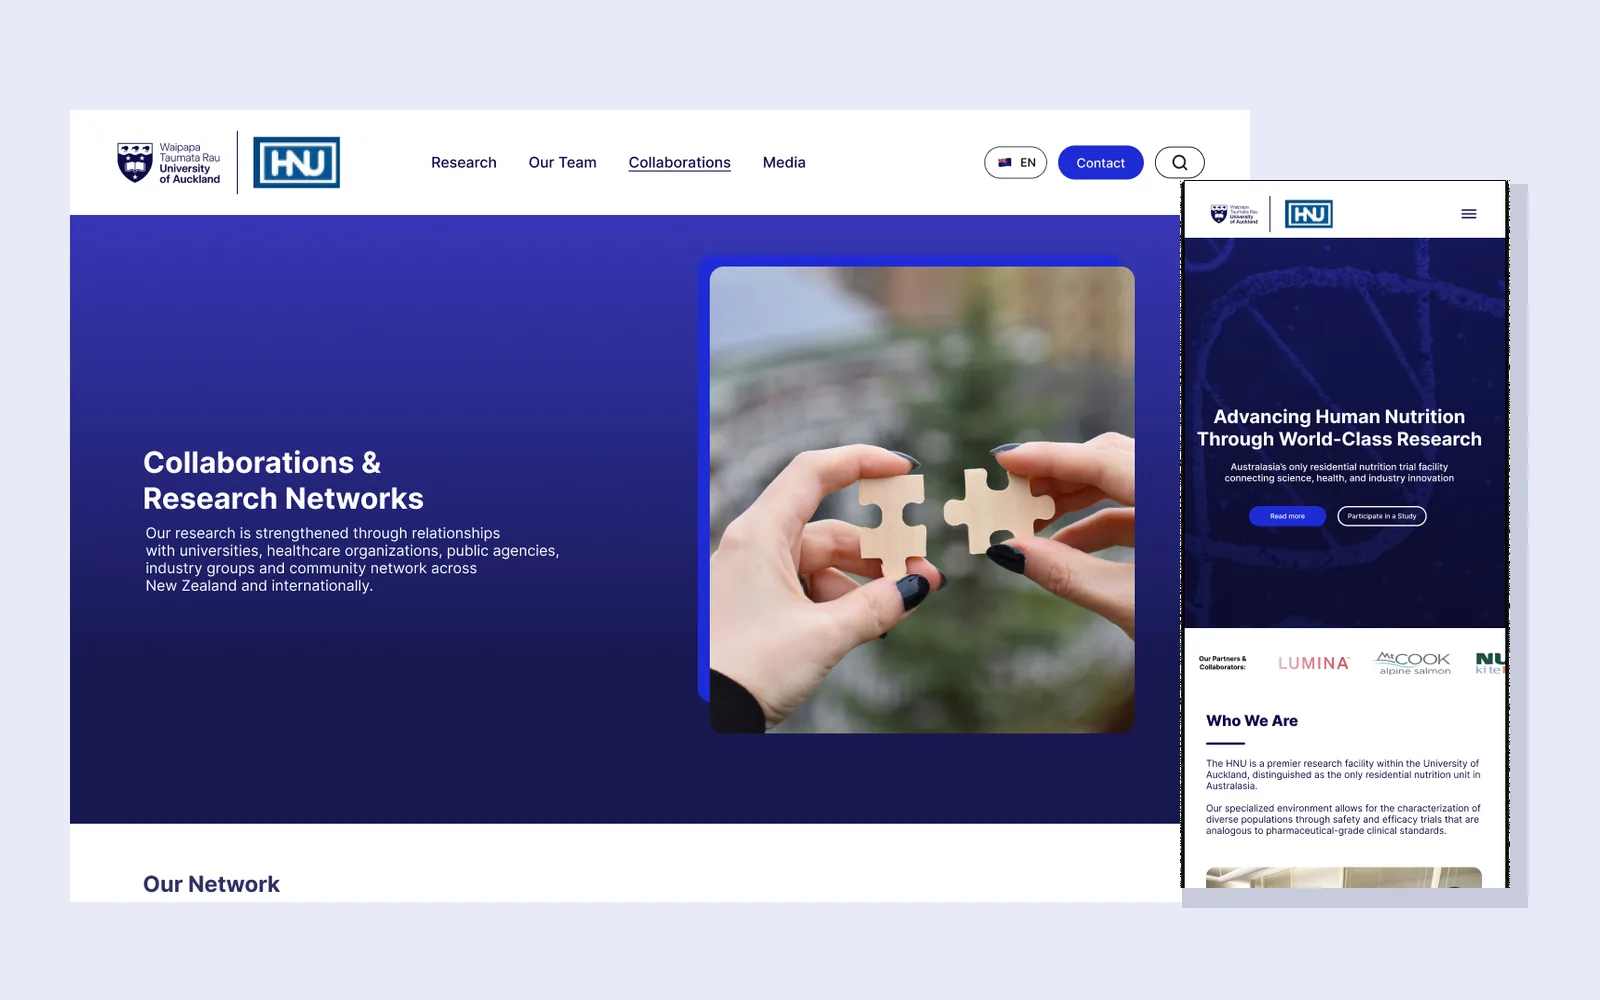
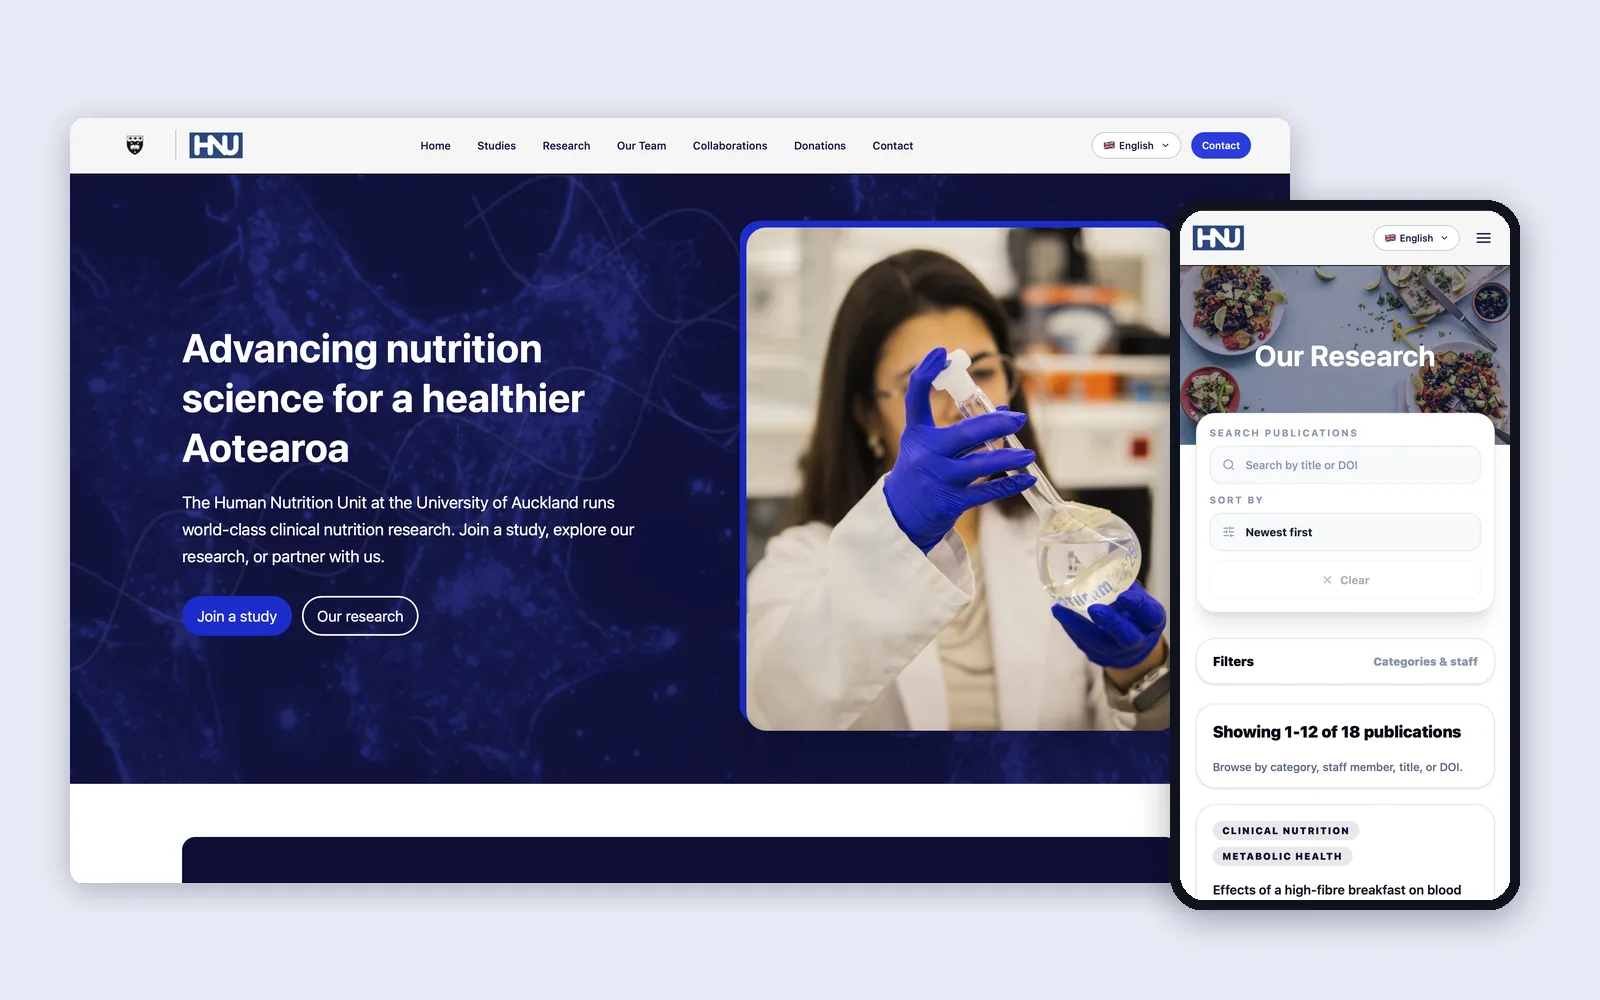
feat: use live site screenshots for HNU case study and UI/UX card

diff --git a/app/(site)/case-studies/hnu/page.js b/app/(site)/case-studies/hnu/page.js
@@ -122,7 +122,24 @@ export default async function HnuCaseStudy() {
         </section>
 
         <section className="wrap cs-section">
-          <p className="eyebrow">04 · What I learned</p>
+          <p className="eyebrow">04 · The live build</p>
+          <h2>From Figma to a working website</h2>
+          <div className="cs-text">
+            <p>
+              The team built the site in Next.js and TypeScript. I coded the Research page myself: search by title or DOI,
+              sorting, filters by category and staff member, pagination, and grid and list views. On phones the filters fold
+              into one “Filters” button so the results stay easy to reach.
+            </p>
+          </div>
+          <Shot src="live-home" alt="Live HNU home page on desktop" w={1600} h={1003} caption="Home page, live site" />
+          <div className="cs-grid build">
+            <Shot src="live-research" alt="Live Research page on desktop with search, sort and category filters" w={1600} h={1004} caption="Research page (coded by me), desktop" />
+            <Shot src="live-research-mobile" alt="Live Research page on a phone" w={600} h={1342} caption="Research page, mobile" />
+          </div>
+        </section>
+
+        <section className="wrap cs-section">
+          <p className="eyebrow">05 · What I learned</p>
           <h2>What I’d take into my next project</h2>
           <div className="cs-text">
             <ul>

diff --git a/components/Portfolio.js b/components/Portfolio.js
@@ -145,7 +145,7 @@ export default function Portfolio({ settings: s, posters, start, testimonials = 
                 <p className="eyebrow">Websites and apps, from Figma to code</p>
                 <a className="case-card" href="/case-studies/hnu">
                   <span className="case-card-img">
-                    <img src="/case-studies/hnu/cover.webp" alt="Human Nutrition Unit website redesign: desktop and mobile designs" width="1600" height="1000" loading="lazy" decoding="async" />
+                    <img src="/case-studies/hnu/cover.webp" alt="Human Nutrition Unit live website: home page on desktop and Research page on a phone" width="1600" height="1000" loading="lazy" decoding="async" />
                   </span>
                   <span className="case-card-text">
                     <small>Case study · University of Auckland client</small>

diff --git a/app/(site)/site.css b/app/(site)/site.css
@@ -379,3 +379,6 @@ footer a{color:inherit}
   .nav-menu-cta{display:block;margin-top:8px;padding:14px 16px;border-radius:999px;text-align:center;color:#fff;text-decoration:none;font-size:17px;font-weight:500;
     background:radial-gradient(120% 140% at 0% 0%,#5a5d66 0%,#16171b 42%,#0b0c0f 70%,#3a3c43 100%)}
 }
+.cs-grid.build{grid-template-columns:minmax(0,1fr) minmax(0,260px);margin-top:clamp(12px,1.6vw,22px)}
+.cs-grid.build .cs-shot:last-child img{max-height:560px;object-fit:cover;object-position:top}
+@media (max-width:860px){.cs-grid.build{grid-template-columns:minmax(0,1fr) minmax(0,40%)}}
